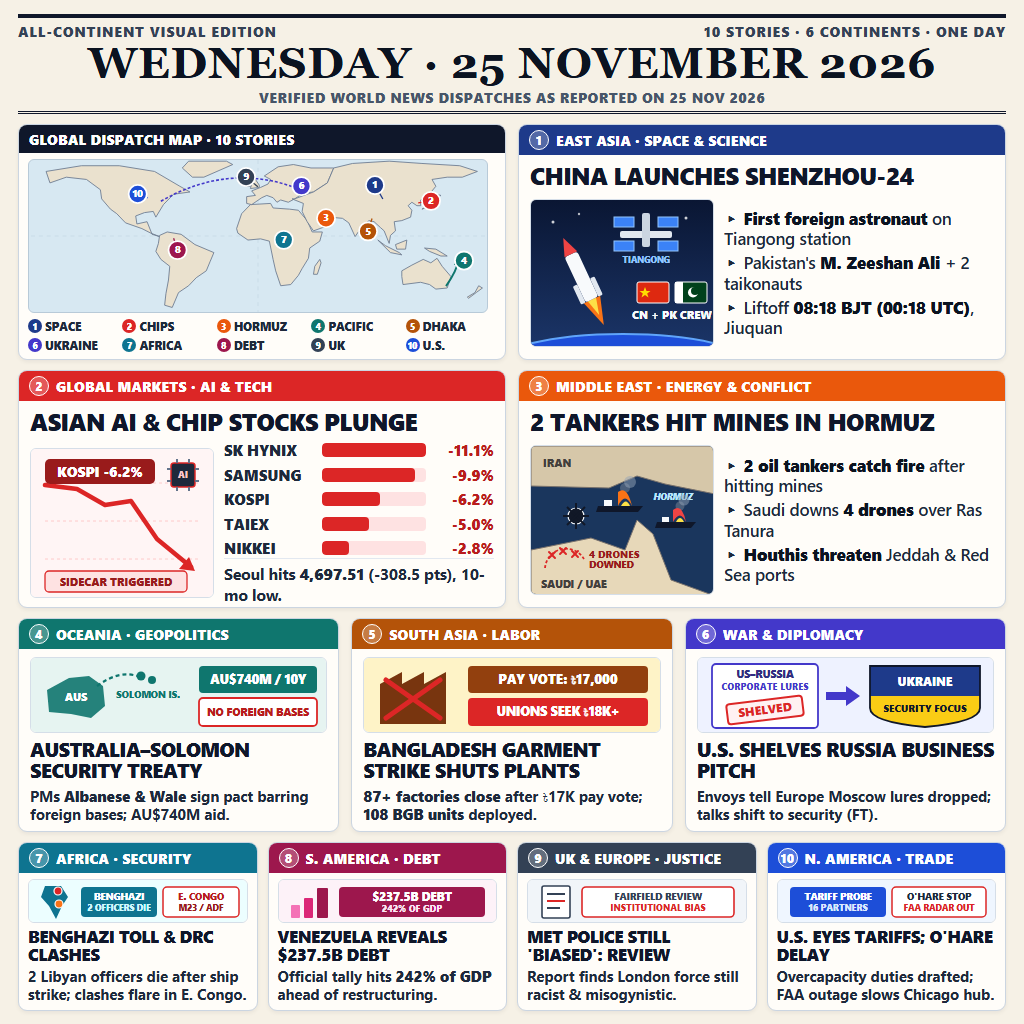
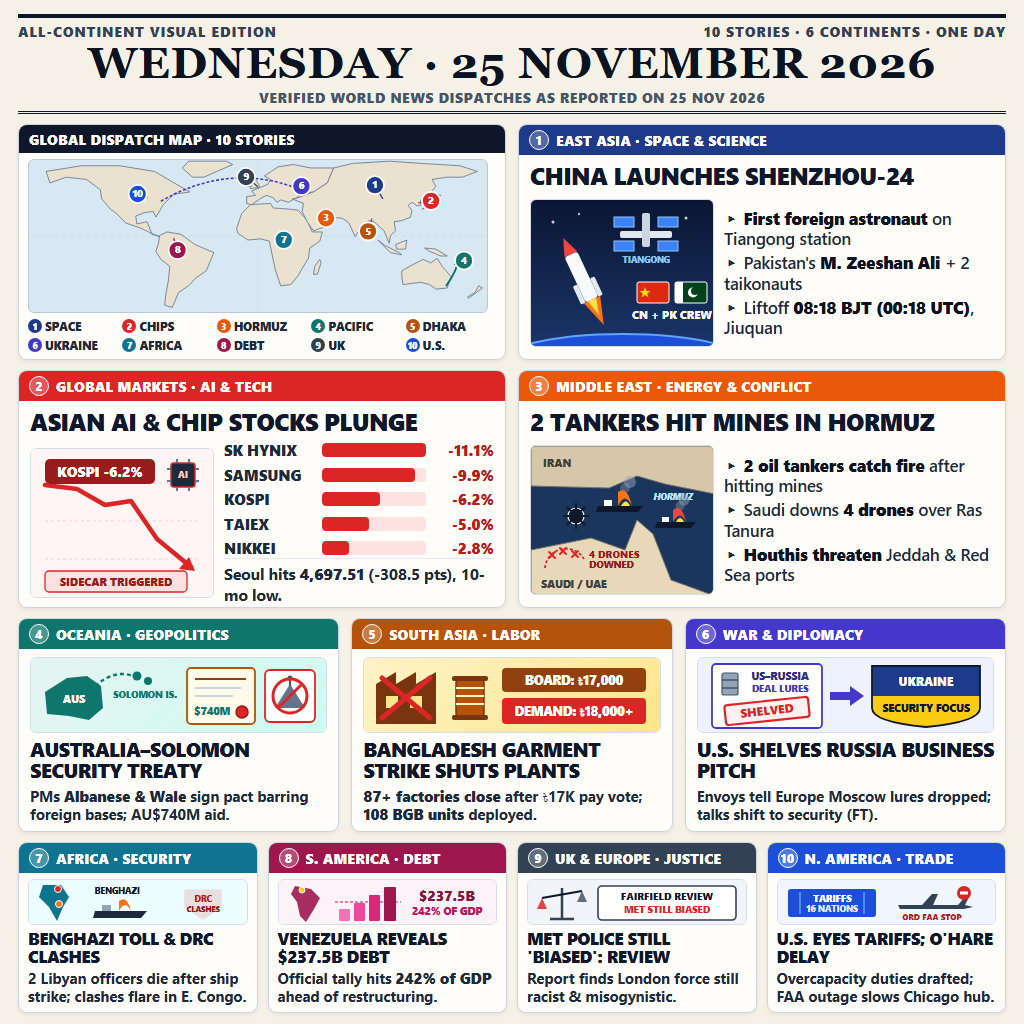
Final v8 editorial illustrations and collision-free layout

diff --git a/scripts/render_broadsheet.py b/scripts/render_broadsheet.py
@@ -7,7 +7,7 @@ from playwright.sync_api import sync_playwright
 ROOT = Path(__file__).resolve().parent.parent
 ASSET_OUT = ROOT / "assets" / "entry.png"
 SCRATCH_DIR = Path(r"C:\Users\82103\.gemini\antigravity\brain\c8bbd2ac-e3a5-415b-8afb-bf347f8e20ad\scratch")
-PREVIEW_300 = SCRATCH_DIR / "preview_300_v6.png"
+PREVIEW_300 = SCRATCH_DIR / "preview_300_v8.png"
 
 
 def proj(lon: float, lat: float) -> tuple[float, float]:
@@ -556,17 +556,30 @@ HTML_TEMPLATE = """<!doctype html>
       </div>
       <div class="card-body">
         <div class="art-box" style="height: 76px;">
-          <svg viewBox="0 0 296 76" width="296" height="76" xmlns="http://www.w3.org/2000/svg" style="display:block;background:#E6F4F1;">
-            <polygon points="16,32 38,20 58,18 72,28 74,48 60,60 40,56 18,54" fill="#0F766E" opacity="0.9"/>
-            <text x="45" y="43" text-anchor="middle" fill="#FFF" font-size="11" font-weight="900">AUS</text>
-            <circle cx="110" cy="18" r="4.5" fill="#0F766E"/>
-            <circle cx="121" cy="22" r="4" fill="#0F766E"/>
-            <path d="M 66 28 Q 88 12 106 18" fill="none" stroke="#0F766E" stroke-width="2.2" stroke-dasharray="4,3"/>
-            <text x="117" y="40" text-anchor="middle" fill="#0F766E" font-size="9.5" font-weight="900">SOLOMON IS.</text>
-            <rect x="168" y="8" width="118" height="27" rx="4" fill="#0F766E"/>
-            <text x="227" y="26" text-anchor="middle" fill="#FFF" font-size="12.5" font-weight="900">AU$740M / 10Y</text>
-            <rect x="168" y="40" width="118" height="28" rx="4" fill="#FFF" stroke="#DC2626" stroke-width="1.8"/>
-            <text x="227" y="58" text-anchor="middle" fill="#B91C1C" font-size="10.5" font-weight="900">NO FOREIGN BASES</text>
+          <svg viewBox="0 0 296 76" width="296" height="76" xmlns="http://www.w3.org/2000/svg" style="display:block;background:linear-gradient(135deg,#E6F4F1 0%,#CCFBF1 100%);">
+            <!-- Australia + Solomon Is. -->
+            <polygon points="14,34 36,20 56,18 70,28 72,50 58,62 38,58 16,56" fill="#0F766E"/>
+            <text x="43" y="45" text-anchor="middle" fill="#FFF" font-size="11" font-weight="900">AUS</text>
+            <circle cx="106" cy="18" r="4.5" fill="#0F766E"/>
+            <circle cx="117" cy="23" r="4" fill="#0F766E"/>
+            <path d="M 64 28 Q 84 11 102 18" fill="none" stroke="#0F766E" stroke-width="2.4" stroke-dasharray="4,3"/>
+            <text x="114" y="40" text-anchor="middle" fill="#0F766E" font-size="9.5" font-weight="900">SOLOMON IS.</text>
+            <!-- Treaty scroll + wax seal -->
+            <rect x="156" y="10" width="68" height="56" rx="4" fill="#FFFBEB" stroke="#B45309" stroke-width="1.8"/>
+            <line x1="164" y1="21" x2="215" y2="21" stroke="#92400E" stroke-width="2.2"/>
+            <line x1="164" y1="30" x2="210" y2="30" stroke="#CBD5E1" stroke-width="2"/>
+            <line x1="164" y1="38" x2="202" y2="38" stroke="#CBD5E1" stroke-width="2"/>
+            <circle cx="211" cy="54" r="6" fill="#DC2626" stroke="#991B1B" stroke-width="1.5"/>
+            <text x="181" y="57" text-anchor="middle" fill="#0F766E" font-size="10.5" font-weight="900">$740M</text>
+            <!-- Crossed-out foreign military base -->
+            <g transform="translate(234,12)">
+              <rect x="0" y="0" width="50" height="52" rx="5" fill="#FFF" stroke="#DC2626" stroke-width="1.8"/>
+              <polygon points="10,38 25,14 40,38" fill="#64748B"/>
+              <line x1="25" y1="8" x2="25" y2="16" stroke="#475569" stroke-width="2.2"/>
+              <circle cx="25" cy="8" r="2.5" fill="#475569"/>
+              <circle cx="25" cy="26" r="17" fill="none" stroke="#DC2626" stroke-width="3"/>
+              <line x1="13" y1="38" x2="37" y2="14" stroke="#DC2626" stroke-width="3"/>
+            </g>
           </svg>
         </div>
         <div class="hl-sm">AUSTRALIA&ndash;SOLOMON SECURITY TREATY</div>
@@ -581,14 +594,27 @@ HTML_TEMPLATE = """<!doctype html>
       </div>
       <div class="card-body">
         <div class="art-box" style="height: 76px;">
-          <svg viewBox="0 0 296 76" width="296" height="76" xmlns="http://www.w3.org/2000/svg" style="display:block;background:#FEF3C7;">
-            <polygon points="16,66 16,26 38,14 38,26 60,14 60,26 82,14 82,66" fill="#78350F"/>
-            <line x1="22" y1="22" x2="76" y2="60" stroke="#DC2626" stroke-width="5" stroke-linecap="round"/>
-            <line x1="76" y1="22" x2="22" y2="60" stroke="#DC2626" stroke-width="5" stroke-linecap="round"/>
-            <rect x="104" y="8" width="180" height="27" rx="4" fill="#92400E"/>
-            <text x="194" y="26" text-anchor="middle" fill="#FFF" font-size="13" font-weight="900">PAY VOTE: &#x09F3;17,000</text>
-            <rect x="104" y="40" width="180" height="28" rx="4" fill="#DC2626"/>
-            <text x="194" y="58" text-anchor="middle" fill="#FFF" font-size="12.5" font-weight="900">UNIONS SEEK &#x09F3;18K+</text>
+          <svg viewBox="0 0 296 76" width="296" height="76" xmlns="http://www.w3.org/2000/svg" style="display:block;background:linear-gradient(135deg,#FEF3C7 0%,#FDE68A 100%);">
+            <!-- Sawtooth factory + padlock -->
+            <polygon points="12,66 12,26 32,14 32,26 52,14 52,26 72,14 72,66" fill="#78350F"/>
+            <rect x="22" y="38" width="12" height="12" fill="#FDE68A"/>
+            <rect x="46" y="38" width="12" height="12" fill="#FDE68A"/>
+            <line x1="18" y1="20" x2="66" y2="60" stroke="#DC2626" stroke-width="5" stroke-linecap="round"/>
+            <line x1="66" y1="20" x2="18" y2="60" stroke="#DC2626" stroke-width="5" stroke-linecap="round"/>
+            <!-- Garment spool / fabric + strike placard -->
+            <g transform="translate(86,14)">
+              <rect x="6" y="8" width="28" height="36" rx="3" fill="#B45309" stroke="#78350F" stroke-width="1.5"/>
+              <line x1="6" y1="16" x2="34" y2="16" stroke="#FEF3C7" stroke-width="1.8"/>
+              <line x1="6" y1="24" x2="34" y2="24" stroke="#FEF3C7" stroke-width="1.8"/>
+              <line x1="6" y1="32" x2="34" y2="32" stroke="#FEF3C7" stroke-width="1.8"/>
+              <rect x="2" y="4" width="36" height="5" rx="2" fill="#78350F"/>
+              <rect x="2" y="43" width="36" height="5" rx="2" fill="#78350F"/>
+            </g>
+            <!-- Protest placard vs board -->
+            <rect x="138" y="10" width="144" height="24" rx="4" fill="#92400E"/>
+            <text x="210" y="27" text-anchor="middle" fill="#FFF" font-size="12.5" font-weight="900">BOARD: &#x09F3;17,000</text>
+            <rect x="138" y="40" width="144" height="26" rx="4" fill="#DC2626"/>
+            <text x="210" y="57.5" text-anchor="middle" fill="#FFF" font-size="12.5" font-weight="900">DEMAND: &#x09F3;18,000+</text>
           </svg>
         </div>
         <div class="hl-sm">BANGLADESH GARMENT STRIKE SHUTS PLANTS</div>
@@ -604,26 +630,30 @@ HTML_TEMPLATE = """<!doctype html>
       <div class="card-body">
         <div class="art-box" style="height: 76px;">
           <svg viewBox="0 0 296 76" width="296" height="76" xmlns="http://www.w3.org/2000/svg" style="display:block;background:#EEF2FF;">
-            <rect x="14" y="6" width="106" height="64" rx="4" fill="#FFF" stroke="#4338CA" stroke-width="1.8"/>
-            <text x="67" y="20" text-anchor="middle" fill="#312E81" font-size="10.5" font-weight="900">US&ndash;RUSSIA</text>
-            <text x="67" y="32" text-anchor="middle" fill="#4338CA" font-size="9.2" font-weight="800">CORPORATE LURES</text>
-            <g transform="translate(67,52) rotate(-7)">
-              <rect x="-38" y="-10" width="76" height="20" rx="3" fill="#FFF1F2" stroke="#DC2626" stroke-width="2"/>
+            <rect x="14" y="6" width="110" height="64" rx="4" fill="#FFF" stroke="#4338CA" stroke-width="1.8"/>
+            <!-- Oil barrel + jet silhouette behind stamp -->
+            <rect x="24" y="15" width="16" height="22" rx="2" fill="#94A3B8" stroke="#475569" stroke-width="1.2"/>
+            <line x1="24" y1="22" x2="40" y2="22" stroke="#475569" stroke-width="1.4"/>
+            <line x1="24" y1="30" x2="40" y2="30" stroke="#475569" stroke-width="1.4"/>
+            <text x="82" y="22" text-anchor="middle" fill="#312E81" font-size="10.5" font-weight="900">US&ndash;RUSSIA</text>
+            <text x="82" y="34" text-anchor="middle" fill="#4338CA" font-size="9.5" font-weight="800">DEAL LURES</text>
+            <g transform="translate(69,53) rotate(-6)">
+              <rect x="-42" y="-10" width="84" height="20" rx="3" fill="#FFF1F2" stroke="#DC2626" stroke-width="2.2"/>
               <text x="0" y="4" text-anchor="middle" fill="#DC2626" font-size="12" font-weight="900">SHELVED</text>
             </g>
-            <polygon points="128,34 148,34 148,28 162,38 148,48 148,42 128,42" fill="#4338CA"/>
+            <polygon points="132,34 152,34 152,28 166,38 152,48 152,42 132,42" fill="#4338CA"/>
             <defs>
               <clipPath id="shieldClip4">
-                <path d="M172,8 L282,8 L282,50 Q282,64 227,69 Q172,64 172,50 Z"/>
+                <path d="M174,8 L282,8 L282,50 Q282,64 228,69 Q174,64 174,50 Z"/>
               </clipPath>
             </defs>
             <g clip-path="url(#shieldClip4)">
-              <rect x="172" y="8" width="110" height="30" fill="#1E3A8A"/>
-              <rect x="172" y="38" width="110" height="32" fill="#FACC15"/>
+              <rect x="174" y="8" width="108" height="30" fill="#1E3A8A"/>
+              <rect x="174" y="38" width="108" height="32" fill="#FACC15"/>
             </g>
-            <path d="M172,8 L282,8 L282,50 Q282,64 227,69 Q172,64 172,50 Z" fill="none" stroke="#0F172A" stroke-width="1.8"/>
-            <text x="227" y="28" text-anchor="middle" fill="#FFF" font-size="12" font-weight="900">UKRAINE</text>
-            <text x="227" y="54" text-anchor="middle" fill="#0F172A" font-size="10" font-weight="900">SECURITY FOCUS</text>
+            <path d="M174,8 L282,8 L282,50 Q282,64 228,69 Q174,64 174,50 Z" fill="none" stroke="#0F172A" stroke-width="1.8"/>
+            <text x="228" y="28" text-anchor="middle" fill="#FFF" font-size="12" font-weight="900">UKRAINE</text>
+            <text x="228" y="54" text-anchor="middle" fill="#0F172A" font-size="10.5" font-weight="900">SECURITY FOCUS</text>
           </svg>
         </div>
         <div class="hl-sm">U.S. SHELVES RUSSIA BUSINESS PITCH</div>
@@ -632,7 +662,7 @@ HTML_TEMPLATE = """<!doctype html>
     </div>
   </section>
 
-  <!-- ROW 4: 4 CONTINENTAL WIRE DISPATCHES WITH FULL MINI-SCENES -->
+  <!-- ROW 4: 4 CONTINENTAL WIRE DISPATCHES WITH CUSTOM VISUAL SCENES -->
   <section class="row-4">
     <div class="card">
       <div class="card-bar" style="background:#0E7490;">
@@ -640,17 +670,25 @@ HTML_TEMPLATE = """<!doctype html>
         <span>AFRICA &middot; SECURITY</span>
       </div>
       <div class="card-body" style="gap: 4px; padding: 6px 9px 7px 9px;">
-        <div class="art-box" style="height: 44px;">
-          <svg viewBox="0 0 218 44" width="218" height="44" xmlns="http://www.w3.org/2000/svg" style="display:block;background:#ECFEFF;">
-            <polygon points="16,6 32,6 39,17 33,26 27,39 20,26 12,17" fill="#0E7490"/>
-            <circle cx="29" cy="11" r="4" fill="#DC2626" stroke="#FFF" stroke-width="1.2"/>
-            <circle cx="30" cy="24" r="4" fill="#F97316" stroke="#FFF" stroke-width="1.2"/>
-            <rect x="52" y="7" width="76" height="30" rx="4" fill="#0E7490"/>
-            <text x="90" y="20" text-anchor="middle" fill="#FFF" font-size="9.5" font-weight="900">BENGHAZI</text>
-            <text x="90" y="31" text-anchor="middle" fill="#CFFAFE" font-size="8.5" font-weight="800">2 OFFICERS DIE</text>
-            <rect x="134" y="7" width="76" height="30" rx="4" fill="#FFF" stroke="#DC2626" stroke-width="1.5"/>
-            <text x="172" y="20" text-anchor="middle" fill="#B91C1C" font-size="9.5" font-weight="900">E. CONGO</text>
-            <text x="172" y="31" text-anchor="middle" fill="#991B1B" font-size="8.5" font-weight="800">M23 / ADF</text>
+        <div class="art-box" style="height: 46px;">
+          <svg viewBox="0 0 218 46" width="218" height="46" xmlns="http://www.w3.org/2000/svg" style="display:block;background:#ECFEFF;">
+            <!-- Africa continent + Benghazi port flame + Congo alert -->
+            <polygon points="14,5 32,5 40,17 34,27 28,41 20,27 10,17" fill="#0E7490"/>
+            <circle cx="29" cy="9" r="3.5" fill="#DC2626" stroke="#FFF" stroke-width="1"/>
+            <circle cx="30" cy="24" r="3.5" fill="#F97316" stroke="#FFF" stroke-width="1"/>
+            <!-- Struck ship at Benghazi -->
+            <g transform="translate(88,31)">
+              <polygon points="-24,7 24,7 30,0 -22,0" fill="#1E293B"/>
+              <rect x="-15" y="-6" width="9" height="6" fill="#94A3B8"/>
+              <path d="M2,0 Q8,-12 14,0 Q10,-16 2,-10 Z" fill="#F97316"/>
+              <text x="0" y="-17" text-anchor="middle" fill="#0F172A" font-size="8.5" font-weight="900">BENGHAZI</text>
+            </g>
+            <!-- Crossed shields E. Congo -->
+            <g transform="translate(174,23)">
+              <polygon points="-18,-13 18,-13 18,4 0,16 -18,4" fill="#DC2626" opacity="0.14" stroke="#DC2626" stroke-width="1.6"/>
+              <text x="0" y="-1" text-anchor="middle" fill="#B91C1C" font-size="8.5" font-weight="900">DRC</text>
+              <text x="0" y="9" text-anchor="middle" fill="#991B1B" font-size="7.5" font-weight="900">CLASHES</text>
+            </g>
           </svg>
         </div>
         <div class="hl-xs">BENGHAZI TOLL &amp; DRC CLASHES</div>
@@ -664,14 +702,19 @@ HTML_TEMPLATE = """<!doctype html>
         <span>S. AMERICA &middot; DEBT</span>
       </div>
       <div class="card-body" style="gap: 4px; padding: 6px 9px 7px 9px;">
-        <div class="art-box" style="height: 44px;">
-          <svg viewBox="0 0 218 44" width="218" height="44" xmlns="http://www.w3.org/2000/svg" style="display:block;background:#FDF2F8;">
-            <rect x="12" y="25" width="9" height="13" rx="1" fill="#F472B6"/>
-            <rect x="25" y="18" width="9" height="20" rx="1" fill="#DB2777"/>
-            <rect x="38" y="8" width="11" height="30" rx="1" fill="#9D174D"/>
-            <rect x="60" y="7" width="146" height="30" rx="4" fill="#9D174D"/>
-            <text x="133" y="21" text-anchor="middle" fill="#FFF" font-size="11.5" font-weight="900">$237.5B DEBT</text>
-            <text x="133" y="32" text-anchor="middle" fill="#FCE7F3" font-size="9" font-weight="800">242% OF GDP</text>
+        <div class="art-box" style="height: 46px;">
+          <svg viewBox="0 0 218 46" width="218" height="46" xmlns="http://www.w3.org/2000/svg" style="display:block;background:#FDF2F8;">
+            <!-- South America silhouette -->
+            <polygon points="16,6 32,9 41,18 35,29 27,42 21,36 18,22 12,14" fill="#9D174D" opacity="0.9"/>
+            <circle cx="23" cy="10" r="3" fill="#FACC15" stroke="#FFF" stroke-width="1"/>
+            <!-- Rising debt columns & 242% GDP threshold -->
+            <line x1="56" y1="22" x2="122" y2="22" stroke="#BE185D" stroke-width="1.2" stroke-dasharray="3,2"/>
+            <rect x="60" y="29" width="11" height="12" rx="1" fill="#F472B6"/>
+            <rect x="75" y="23" width="11" height="18" rx="1" fill="#EC4899"/>
+            <rect x="90" y="15" width="11" height="26" rx="1" fill="#DB2777"/>
+            <rect x="105" y="7" width="12" height="34" rx="1" fill="#9D174D"/>
+            <text x="168" y="21" text-anchor="middle" fill="#831843" font-size="14" font-weight="900">$237.5B</text>
+            <text x="168" y="35" text-anchor="middle" fill="#BE185D" font-size="10.5" font-weight="900">242% OF GDP</text>
           </svg>
         </div>
         <div class="hl-xs">VENEZUELA REVEALS $237.5B DEBT</div>
@@ -685,15 +728,18 @@ HTML_TEMPLATE = """<!doctype html>
         <span>UK &amp; EUROPE &middot; JUSTICE</span>
       </div>
       <div class="card-body" style="gap: 4px; padding: 6px 9px 7px 9px;">
-        <div class="art-box" style="height: 44px;">
-          <svg viewBox="0 0 218 44" width="218" height="44" xmlns="http://www.w3.org/2000/svg" style="display:block;background:#F1F5F9;">
-            <rect x="14" y="6" width="28" height="32" rx="2" fill="#FFF" stroke="#334155" stroke-width="1.6"/>
-            <line x1="19" y1="14" x2="37" y2="14" stroke="#334155" stroke-width="2"/>
-            <line x1="19" y1="21" x2="37" y2="21" stroke="#DC2626" stroke-width="2"/>
-            <line x1="19" y1="28" x2="32" y2="28" stroke="#334155" stroke-width="2"/>
-            <rect x="54" y="7" width="152" height="30" rx="4" fill="#FFF" stroke="#DC2626" stroke-width="1.6"/>
-            <text x="130" y="20" text-anchor="middle" fill="#334155" font-size="9.5" font-weight="900">FAIRFIELD REVIEW</text>
-            <text x="130" y="31" text-anchor="middle" fill="#DC2626" font-size="9" font-weight="900">INSTITUTIONAL BIAS</text>
+        <div class="art-box" style="height: 46px;">
+          <svg viewBox="0 0 218 46" width="218" height="46" xmlns="http://www.w3.org/2000/svg" style="display:block;background:#F1F5F9;">
+            <!-- Scales of justice tilted + Met Police badge -->
+            <line x1="34" y1="8" x2="34" y2="39" stroke="#334155" stroke-width="2.5"/>
+            <line x1="22" y1="39" x2="46" y2="39" stroke="#334155" stroke-width="2.5"/>
+            <line x1="14" y1="18" x2="54" y2="11" stroke="#0F172A" stroke-width="2.2"/>
+            <polygon points="14,18 9,29 19,29" fill="#DC2626" opacity="0.85"/>
+            <polygon points="54,11 49,22 59,22" fill="#475569" opacity="0.85"/>
+            <!-- Review report -->
+            <rect x="70" y="6" width="138" height="34" rx="4" fill="#FFF" stroke="#334155" stroke-width="1.6"/>
+            <text x="139" y="20" text-anchor="middle" fill="#0F172A" font-size="10" font-weight="900">FAIRFIELD REVIEW</text>
+            <text x="139" y="33" text-anchor="middle" fill="#DC2626" font-size="9.5" font-weight="900">MET STILL BIASED</text>
           </svg>
         </div>
         <div class="hl-xs">MET POLICE STILL 'BIASED': REVIEW</div>
@@ -707,14 +753,21 @@ HTML_TEMPLATE = """<!doctype html>
         <span>N. AMERICA &middot; TRADE</span>
       </div>
       <div class="card-body" style="gap: 4px; padding: 6px 9px 7px 9px;">
-        <div class="art-box" style="height: 44px;">
-          <svg viewBox="0 0 218 44" width="218" height="44" xmlns="http://www.w3.org/2000/svg" style="display:block;background:#EFF6FF;">
-            <rect x="12" y="7" width="96" height="30" rx="4" fill="#1D4ED8"/>
-            <text x="60" y="20" text-anchor="middle" fill="#FFF" font-size="9.5" font-weight="900">TARIFF PROBE</text>
-            <text x="60" y="31" text-anchor="middle" fill="#DBEAFE" font-size="8.8" font-weight="800">16 PARTNERS</text>
-            <rect x="114" y="7" width="94" height="30" rx="4" fill="#FFF" stroke="#DC2626" stroke-width="1.5"/>
-            <text x="161" y="20" text-anchor="middle" fill="#1E293B" font-size="9.5" font-weight="900">O'HARE STOP</text>
-            <text x="161" y="31" text-anchor="middle" fill="#DC2626" font-size="8.5" font-weight="900">FAA RADAR OUT</text>
+        <div class="art-box" style="height: 46px;">
+          <svg viewBox="0 0 218 46" width="218" height="46" xmlns="http://www.w3.org/2000/svg" style="display:block;background:#EFF6FF;">
+            <!-- Shipping container stamped 15-20% TARIFF -->
+            <rect x="10" y="9" width="88" height="28" rx="3" fill="#1D4ED8"/>
+            <line x1="22" y1="12" x2="22" y2="34" stroke="#60A5FA" stroke-width="1.5"/>
+            <line x1="86" y1="12" x2="86" y2="34" stroke="#60A5FA" stroke-width="1.5"/>
+            <text x="54" y="22" text-anchor="middle" fill="#FFF" font-size="9.5" font-weight="900">TARIFFS</text>
+            <text x="54" y="32" text-anchor="middle" fill="#DBEAFE" font-size="8.5" font-weight="800">16 NATIONS</text>
+            <!-- Grounded jet silhouette + stop octagon -->
+            <g transform="translate(158,23)">
+              <path d="M-38,2 L-14,2 L-4,-9 L2,-9 L-3,2 L22,2 L29,-6 L33,-6 L29,2 L37,4 L28,6 L-36,6 Z" fill="#334155"/>
+              <circle cx="28" cy="-10" r="7" fill="#DC2626"/>
+              <rect x="24" y="-11.5" width="8" height="3" fill="#FFF"/>
+              <text x="-4" y="17" text-anchor="middle" fill="#B91C1C" font-size="8" font-weight="900">ORD FAA STOP</text>
+            </g>
           </svg>
         </div>
         <div class="hl-xs">U.S. EYES TARIFFS; O'HARE DELAY</div>
